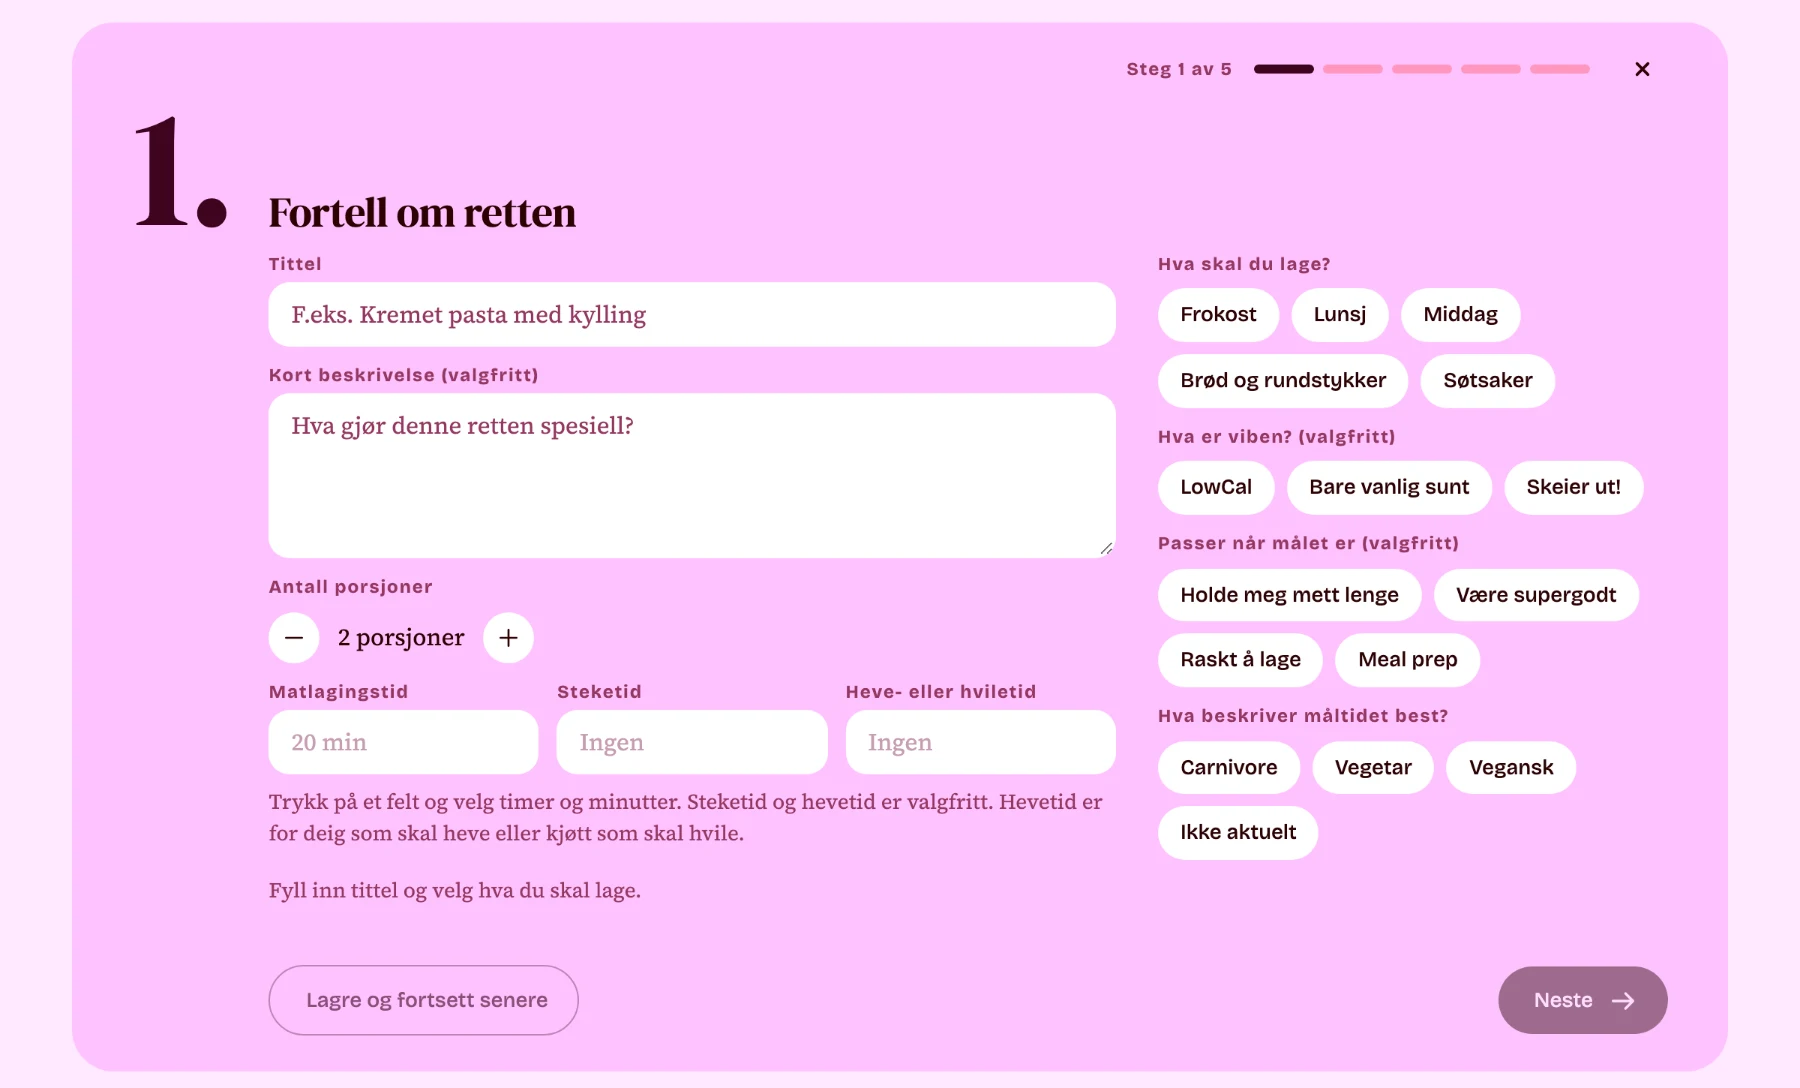
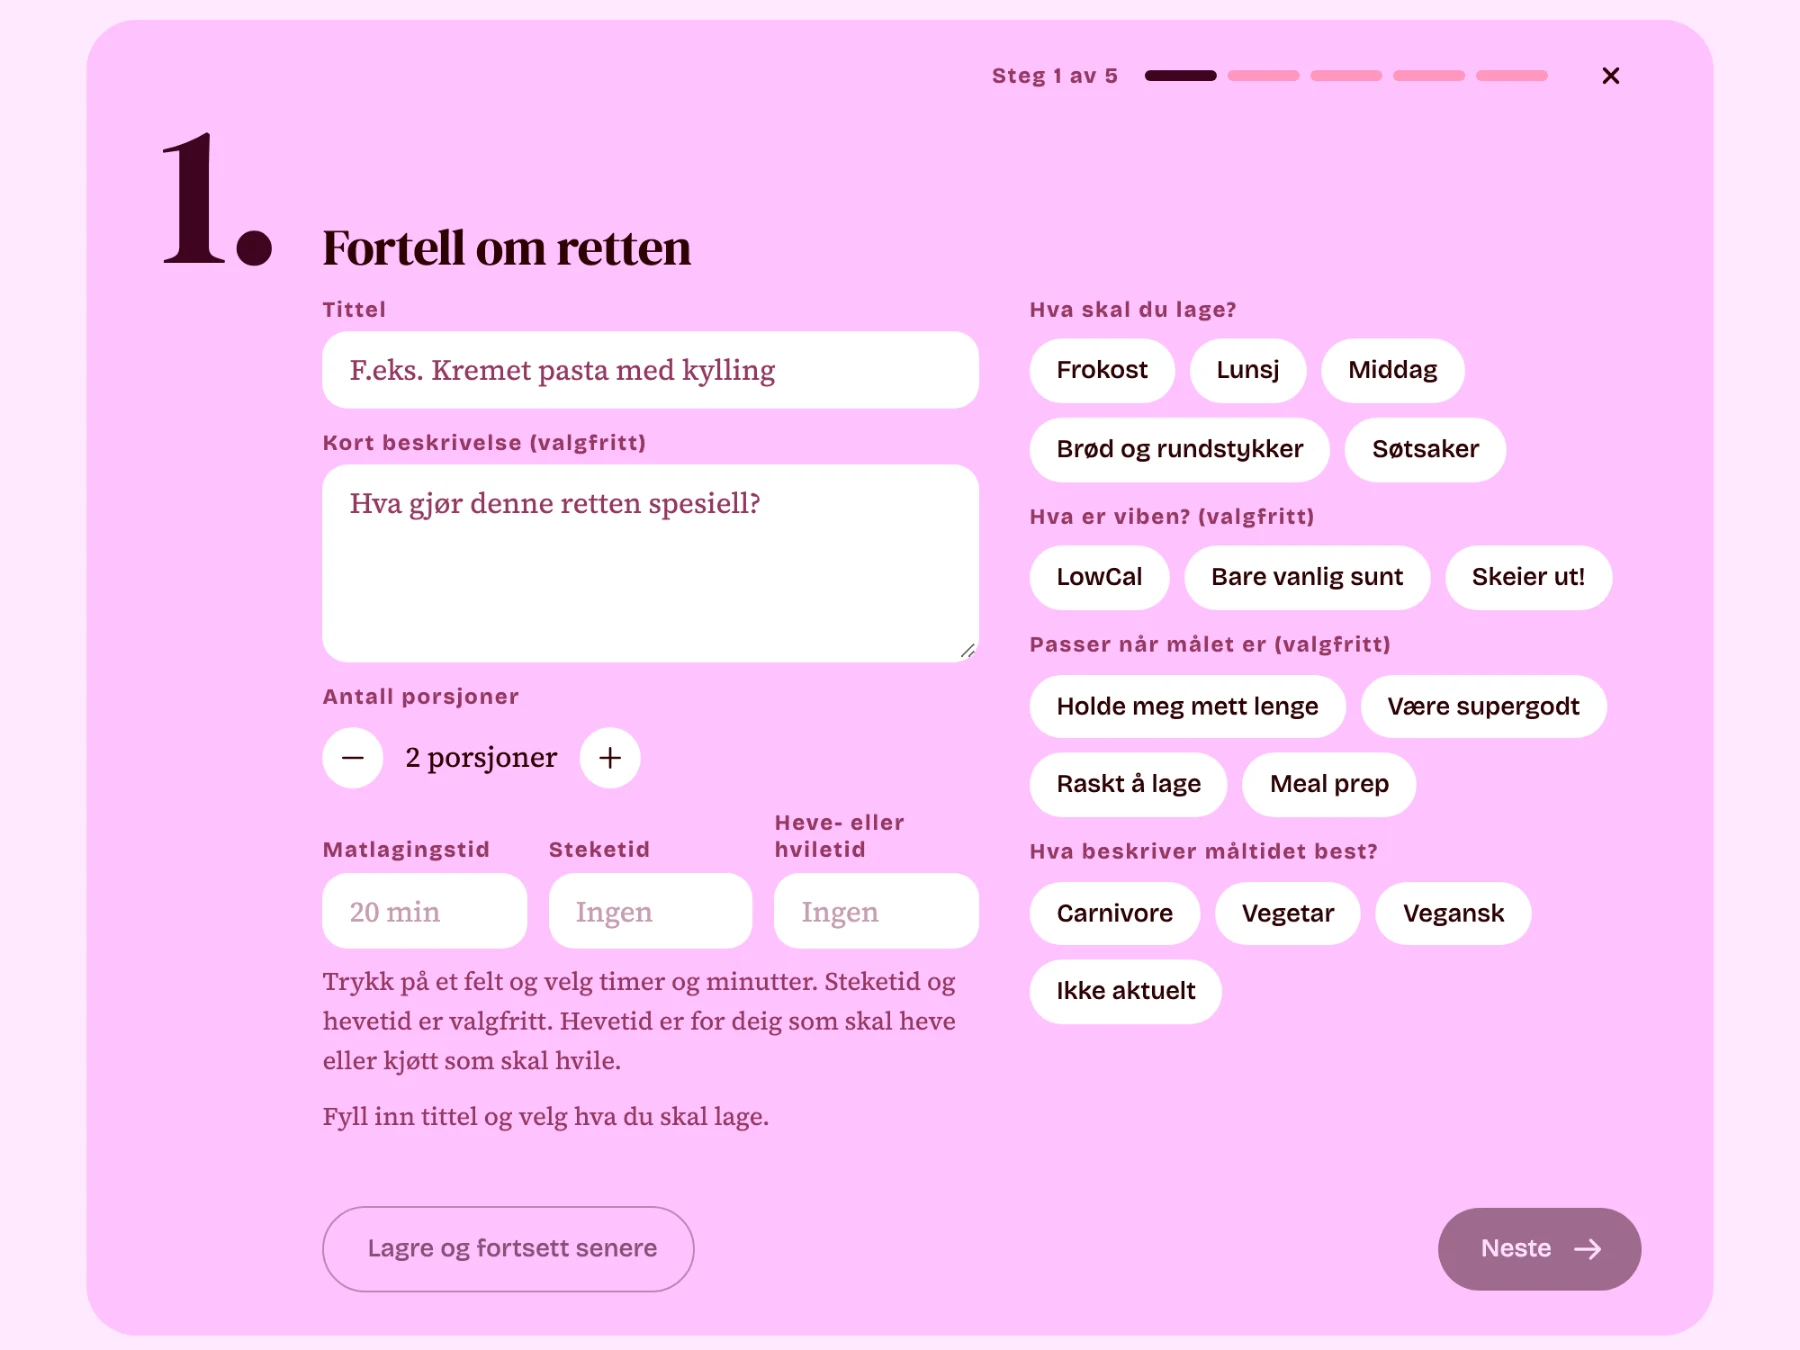
Stines oppskrifter: dark band and thumbnail, square screenshots, new crops, shared list figures
The warm peach background is gone. The thumbnail and the Løsning band are now
the dark olive the site already uses, which lets the pink screenshots stand
out. The screenshots lose their rounded corners and are recaptured larger and
cropped tighter. Del handlelisten gets a shared list and the member dialog.

Changed region(s): [[0.0311, 0.0312, 0.9644, 1.0], [0.0622, 0.0, 0.9333, 0.0938]]

diff --git a/app/routes/stines-oppskrifter.tsx b/app/routes/stines-oppskrifter.tsx
@@ -77,7 +77,7 @@ export default function StinesOppskrifterRoute() {
           id="losning"
           number="02"
           title="Løsning"
-          surface="soft"
+          surface="dark"
           lead="Oppskrifter å la seg inspirere av, verktøy for hverdagen, og alt kan deles med vennene dine."
           wide={
             <>
@@ -223,7 +223,22 @@ export default function StinesOppskrifterRoute() {
                   </p>
                 </Feature>
 
-                <Feature title="Del handlelisten">
+                <Feature
+                  title="Del handlelisten"
+                  figures={[
+                    {
+                      src: "/stines-oppskrifter/delt-liste.webp",
+                      alt: "En handleliste delt med tre personer, med initialene deres ved siden av Rediger og Del.",
+                      caption: "En handleliste med tre medlemmer",
+                    },
+                    {
+                      src: "/stines-oppskrifter/delt-dialog.webp",
+                      alt: "Dialogen Rediger medlemmer, med eieren, to medlemmer og en invitasjon som venter på svar.",
+                      caption:
+                        "Eieren ser hvem som er med og kan fjerne tilgang",
+                    },
+                  ]}
+                >
                   <p>
                     Inviter så mange du vil til en handleliste. Alle ser den
                     samme listen og kan krysse av og slette varer i sanntid, så

diff --git a/app/components/case/Case.css b/app/components/case/Case.css
@@ -20,17 +20,6 @@
   --case-dark: #181b09;
 }
 
-/* Stines oppskrifter: a warm band that sits well with the pink screenshots,
-   and softer corners on the images */
-.case-oppskrifter {
-  --case-soft: #f8efe9;
-  --case-soft-strong: #f1e3da;
-}
-
-.case-oppskrifter .case-figure-image {
-  border-radius: 1rem;
-}
-
 /* Wraps the chapters, so the nav can follow them from top to bottom */
 .case-chapters {
   position: relative;

diff --git a/app/data/thumbnails.ts b/app/data/thumbnails.ts
@@ -75,6 +75,6 @@ export const thumbnails = {
   oppskrifter: {
     foregroundSrc: "/stines-oppskrifter/thumbnail-fg.webp",
     foregroundSize: { width: 860, height: 500 },
-    backgroundColor: "#f4d1c3",
+    backgroundColor: "#23261c",
   },
 } satisfies Record<string, Thumbnail>;
